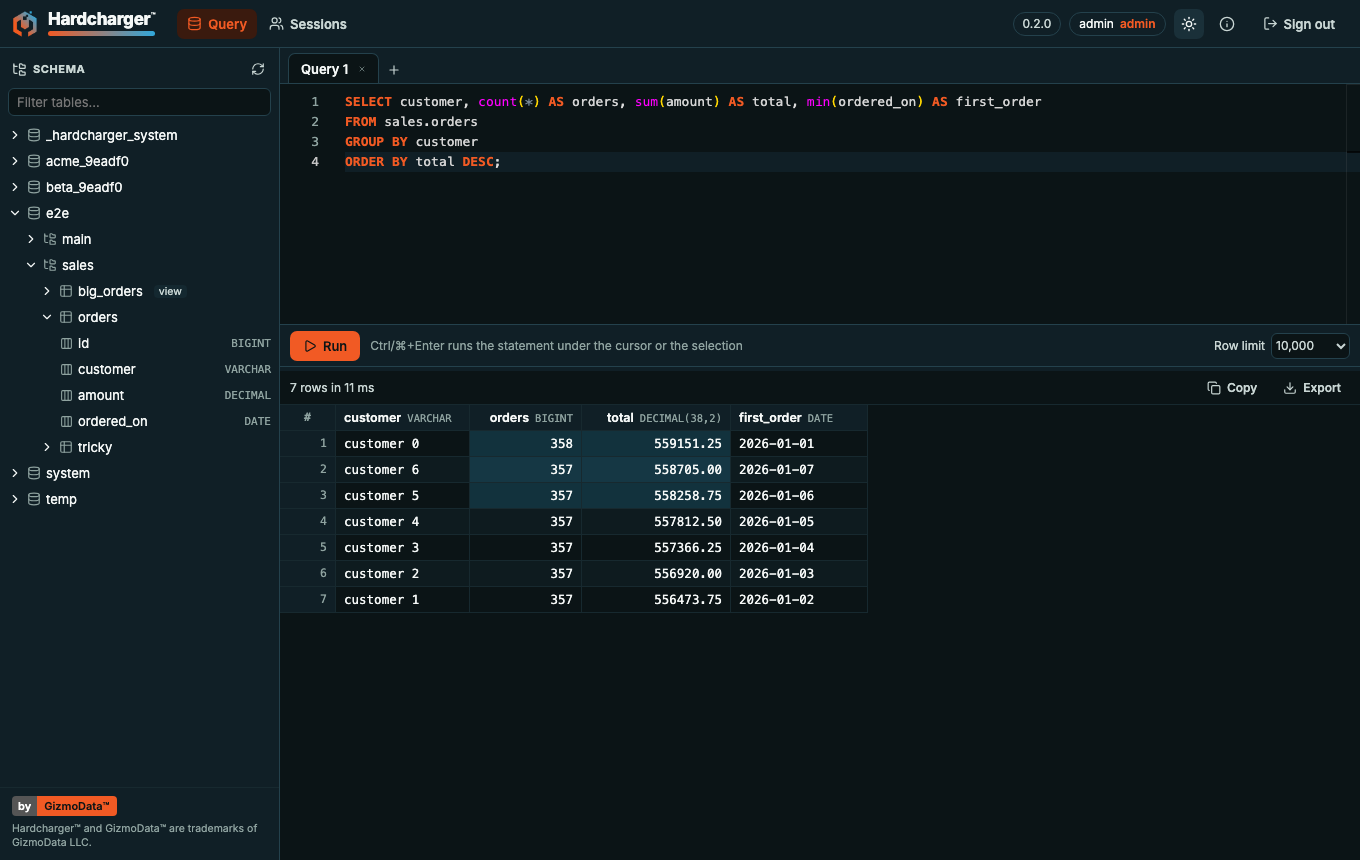
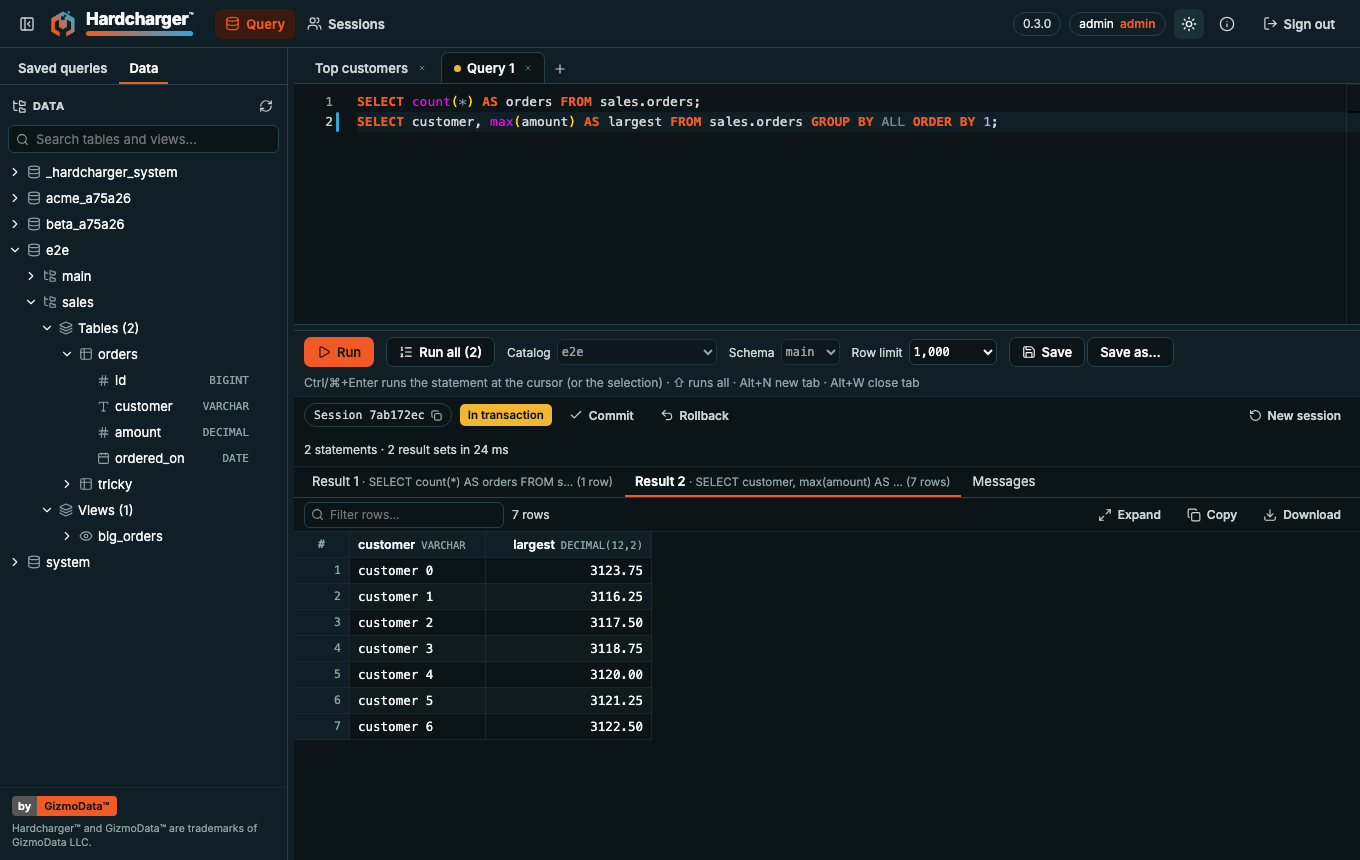
Web UI: fresh README screenshots; tests for the script byte cap and blocked IndexedDB
The README's screenshots (Chromium, from screenshots.spec.ts) show two editor
tabs, a script's result tabs, an open transaction with Commit and Rollback, and
the schema browser. runScript takes its caps as options so a unit test proves
the 64 MiB one (a result that would pass it is listed without rows, the next
one kept). saved-blocked.spec.ts: with IndexedDB throwing, the saved-queries
panel says it can't keep them, Save says so, and queries still run (Chromium
and WebKit).

diff --git a/ui/src/lib/script.ts b/ui/src/lib/script.ts
@@ -69,7 +69,11 @@ export async function runScript(options: {
   /** Called after each statement ends, before the next one starts (for a session check). */
   afterStatement?: (run: StatementRun) => Promise<void>;
   now?: () => number;
+  /** The caps (default: maxResultSets, maxResultBytes). */
+  limits?: { resultSets?: number; bytes?: number };
 }): Promise<ScriptRun> {
+  const capSets = options.limits?.resultSets ?? maxResultSets;
+  const capBytes = options.limits?.bytes ?? maxResultBytes;
   const { statements, execute, rowLimit, signal } = options;
   const now = options.now ?? (() => performance.now());
   const started = now();
@@ -94,7 +98,7 @@ export async function runScript(options: {
         run.rowsAffected = affected;
       } else {
         const schema = await stream.schema();
-        const keep = resultSets.length < maxResultSets && bytes < maxResultBytes;
+        const keep = resultSets.length < capSets && bytes < capBytes;
         const batches: RecordBatch[] = [];
         let rows = 0;
         let held = 0;
@@ -120,7 +124,7 @@ export async function runScript(options: {
         run.status = "rows";
         run.rows = rows;
         run.truncated = truncated;
-        if (keep && bytes + held <= maxResultBytes) {
+        if (keep && bytes + held <= capBytes) {
           run.resultSet = resultSets.length;
           resultSets.push({ statement: i, table: new Table(schema, batches), truncated, bytes: held });
           bytes += held;

diff --git a/ui/test/e2e/saved-blocked.spec.ts b/ui/test/e2e/saved-blocked.spec.ts
@@ -1,0 +1,32 @@
+// Without IndexedDB (a private window, blocked site data) the saved-queries panel says it can't
+// keep them, Save says so, and everything else works.
+import { activeTab, editorFocused, expect, setSql, signIn, test } from "./fixtures.ts";
+
+test.beforeEach(async ({ page }) => {
+  await page.addInitScript(() => {
+    Object.defineProperty(window, "indexedDB", {
+      get() {
+        throw new DOMException("blocked", "SecurityError");
+      },
+    });
+  });
+});
+
+test("the panel says it can't keep saved queries; everything else works", async ({ page, harness }) => {
+  await signIn(page, harness.admin);
+  await editorFocused(page);
+  await page.getByRole("tab", { name: "Saved queries" }).click();
+  const panel = page.getByTestId("saved-queries");
+  await expect(panel).toContainText("doesn't let the page keep saved queries");
+  await expect(panel.getByRole("button", { name: "New folder" })).toBeDisabled();
+  let said = "";
+  page.once("dialog", (d) => {
+    said = d.message();
+    void d.accept();
+  });
+  await setSql(page, "SELECT 'still works' AS v");
+  await page.keyboard.press("ControlOrMeta+S");
+  await expect.poll(() => said).toContain("doesn't let the page keep saved queries");
+  await page.keyboard.press("ControlOrMeta+Enter");
+  await expect(activeTab(page).getByTestId("results-status")).toContainText("1 row in");
+});

diff --git a/ui/test/unit/script.test.ts b/ui/test/unit/script.test.ts
@@ -126,6 +126,23 @@ describe("runScript", () => {
     ]);
   });
 
+  it("keeps results up to the byte cap; a result that would pass it is listed without rows", async () => {
+    const run = await runScript({
+      statements: ["SELECT small", "SELECT big", "SELECT small"],
+      execute: fake({ "SELECT small": () => rows(10), "SELECT big": () => rows(100_000) }),
+      rowLimit: 1_000_000,
+      signal: new AbortController().signal,
+      limits: { bytes: 64 * 1024 },
+    });
+    expect(run.statements.map((s) => [s.status, s.rows, s.omitted ?? false])).toEqual([
+      ["rows", 10, false],
+      ["rows", 100_000, true],
+      ["rows", 10, false],
+    ]);
+    expect(run.resultSets.map((r) => r.statement)).toEqual([0, 2]);
+    expect(run.resultSets.reduce((n, r) => n + r.bytes, 0)).toBeLessThanOrEqual(64 * 1024);
+  });
+
   it("a cancel stops the statement running and every one after it", async () => {
     const abort = new AbortController();
     const run = await runScript({

diff --git a/CHANGELOG.md b/CHANGELOG.md
@@ -9,6 +9,10 @@ own changelog in `python/CHANGELOG.md`.
 
 ### Added
 
+- Web UI: the README's screenshots show the editor's tabs, a script's result tabs and an open
+  transaction; tests for a script's 64 MiB cap (unit) and for a browser that blocks IndexedDB
+  (`saved-blocked.spec.ts`: the panel says it can't keep saved queries, Save says so, queries
+  still run).
 - Web UI, saved queries, Run as and downloads: saved queries in folders, kept in this
   browser (IndexedDB, per user; the page works without it), with Save (Ctrl/⌘+S; the same
   query after the first time), Save as…, the unsaved dot, new folder, rename, move by drag,

diff --git a/ui/README.md b/ui/README.md
@@ -13,7 +13,7 @@ backend and no cross-origin access: the browser speaks [Warp SQL](https://github
 (plain HTTP and Apache Arrow) to the server with [`@gizmodata/warp-sql`](https://github.com/gizmodata/warp-sql-js).
 
 <p align="center">
-  <img src="../docs/assets/web-ui-query-light.png" alt="The web UI: the schema browser, the SQL editor and a result" width="80%">
+  <img src="../docs/assets/web-ui-query-light.png" alt="The web UI: the schema browser, two editor tabs, a script's result tabs, and an open transaction" width="80%">
 </p>
 
 - ✍ **SQL editor** (Monaco), in tabs: up to 20, each with its own Warp SQL session, so one

diff --git a/README.md b/README.md
@@ -52,7 +52,7 @@ Enterprise in GizmoSQL is in every Hardcharger build.
 ## 🖥 Built-in web UI
 
 <p align="center">
-  <img src="docs/assets/web-ui-query-light.png" alt="Hardcharger's web UI, light theme: the schema browser, the SQL editor and a result" width="49%">
+  <img src="docs/assets/web-ui-query-light.png" alt="Hardcharger's web UI, light theme: the schema browser, two editor tabs, a script's result tabs, and an open transaction with Commit and Rollback" width="49%">
   <img src="docs/assets/web-ui-query-dark.png" alt="Hardcharger's web UI, dark theme" width="49%">
 </p>
 
